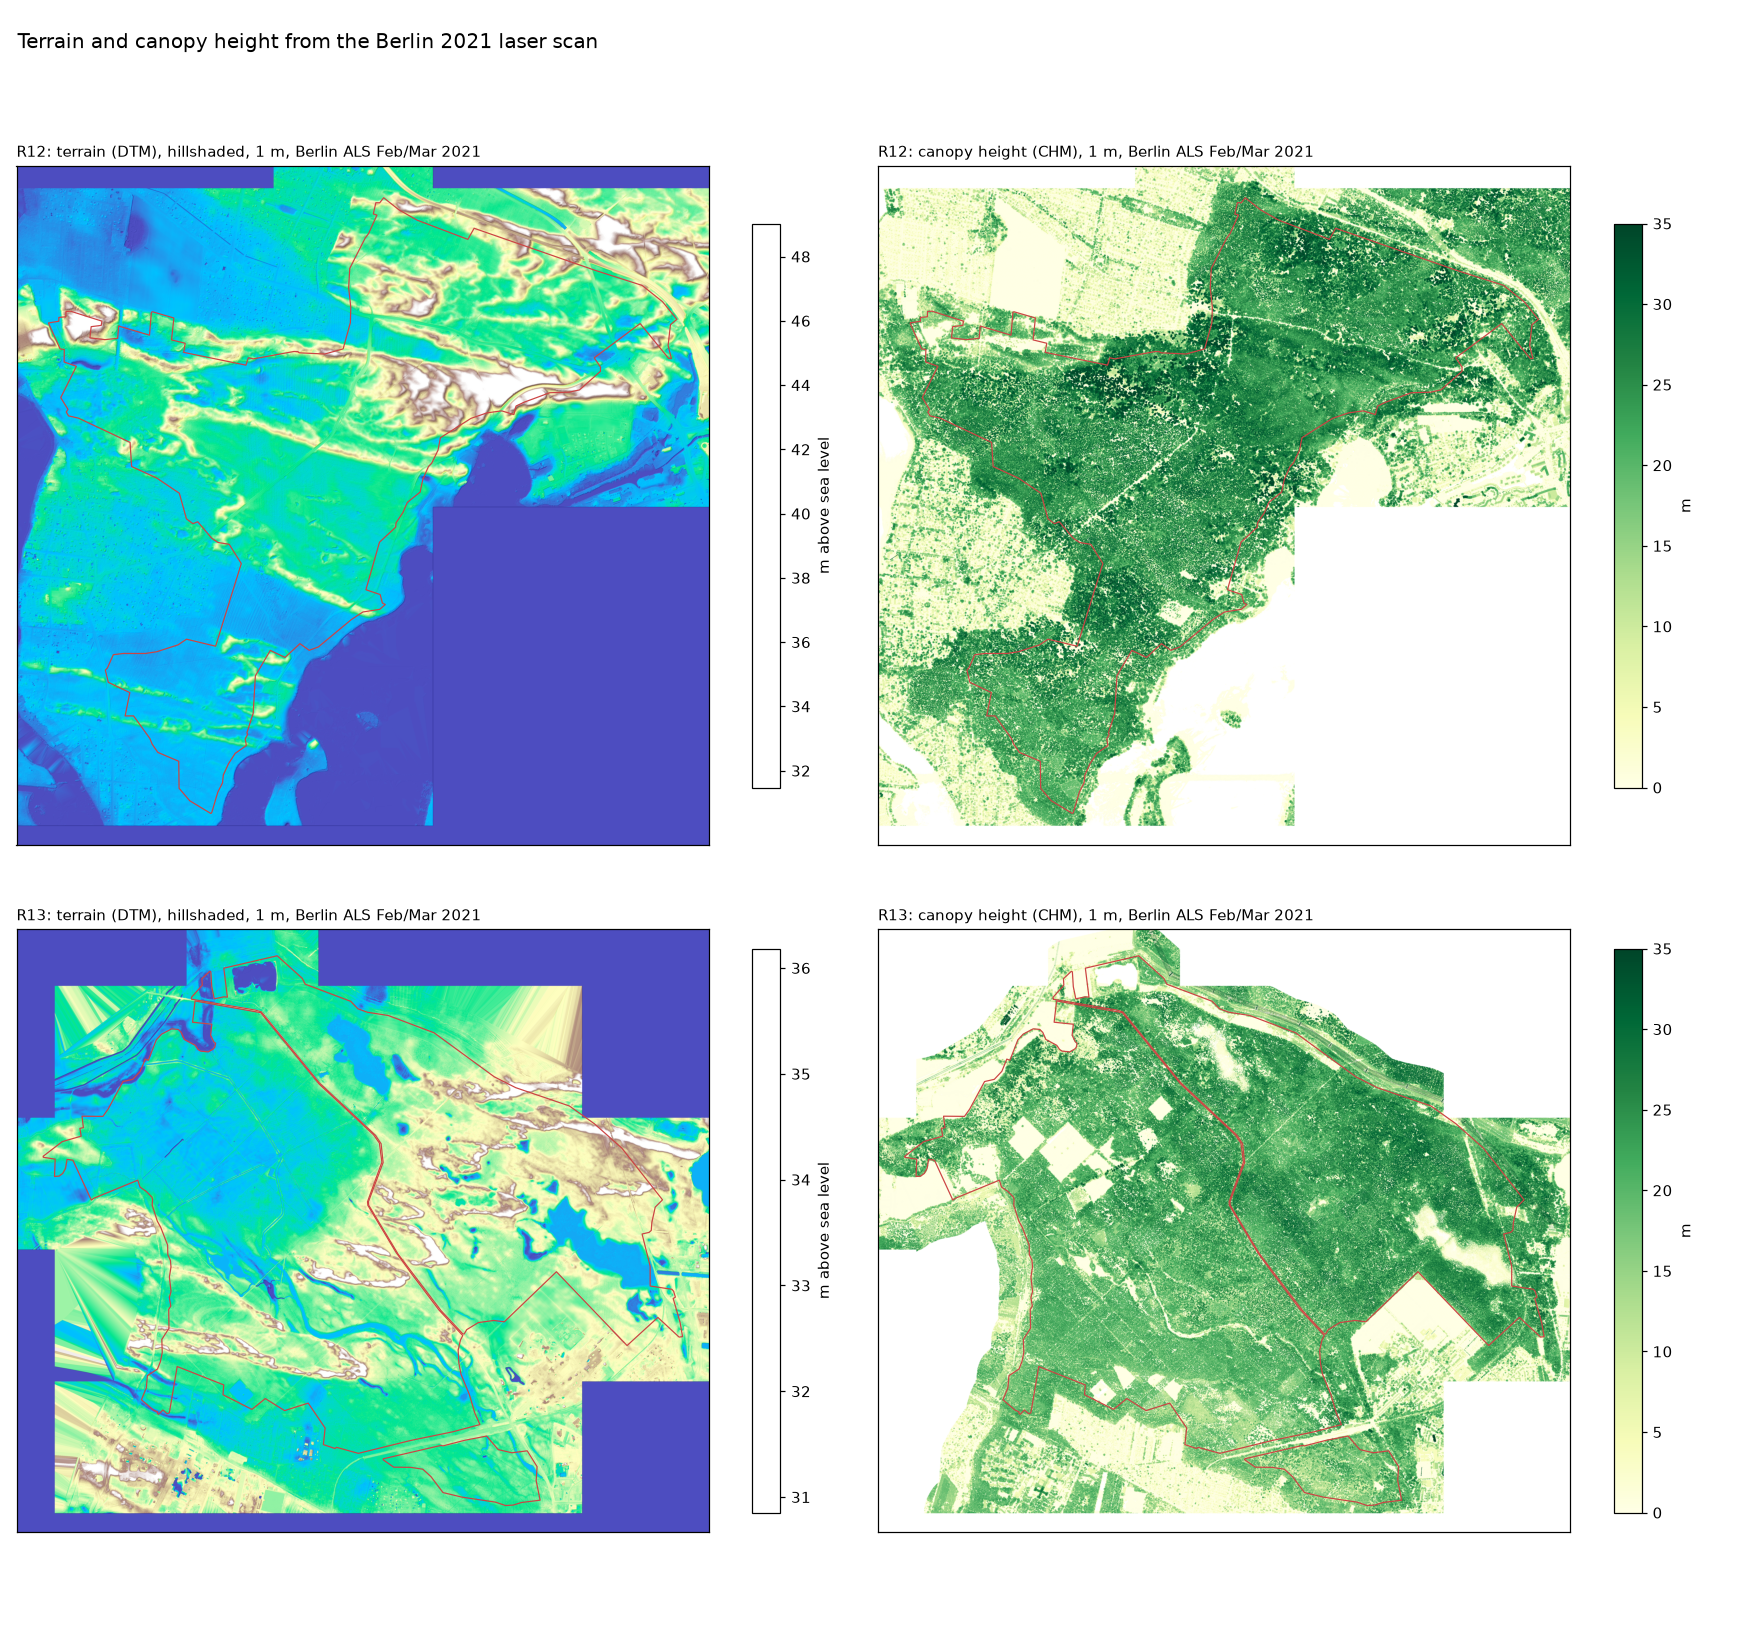
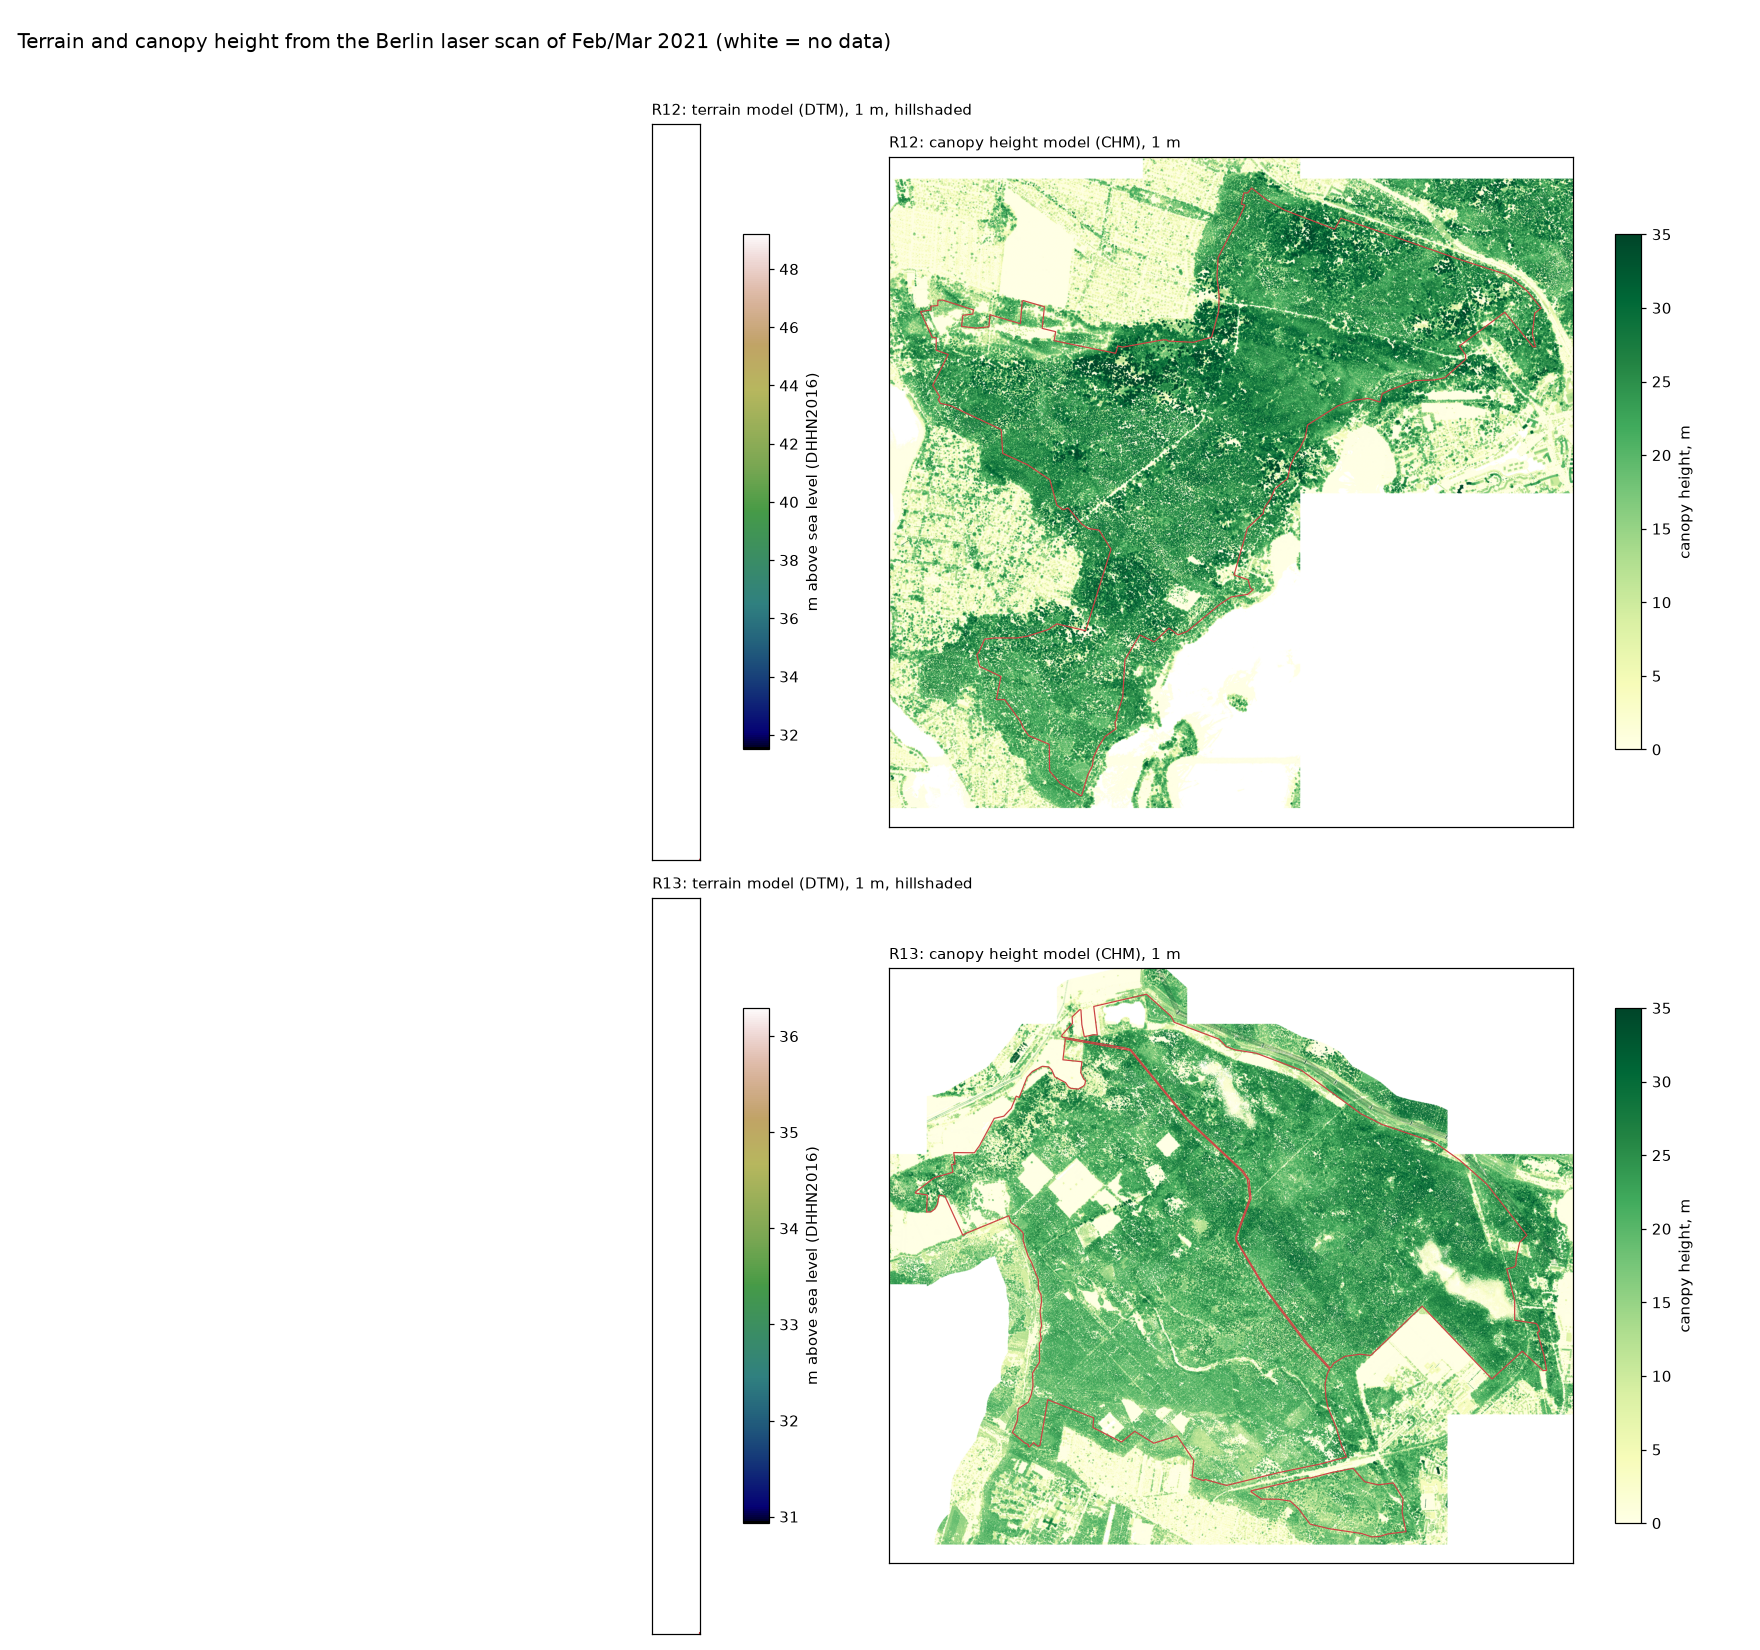
chm_dtm: no extrapolation beyond 15 m of the last return; figure re-rendered
Claude-Session: https://claude.ai/code/session_01PdaJ9MQdhK573JBtm3m8xb

diff --git a/docs/experiments/windthrow/als_tools/chm_dtm.py b/docs/experiments/windthrow/als_tools/chm_dtm.py
@@ -27,6 +27,8 @@ def grid_tile(path):
         filled = griddata(pts, vals, (rr[~have], cc[~have]), method="linear")
         dtm[~have] = filled; still = ~np.isfinite(dtm)
         if still.any(): dtm[still] = NearestNDInterpolator(pts, vals)(rr[still], cc[still])
+    cover = binary_dilation(np.isfinite(dsm), iterations=15)            # only fill holes within 15 m of any return; no extrapolation past the scan edge
+    dtm[~cover] = np.nan
     chm = np.clip(dsm - dtm, 0, None); chm[~np.isfinite(dsm)] = np.nan
     tr = from_origin(x0, y0 + 1000, RES, RES)
     return dict(dtm=dtm.astype("float32"), dsm=dsm.astype("float32"), chm=chm.astype("float32")), tr, int(g.sum()), int(len(z))
